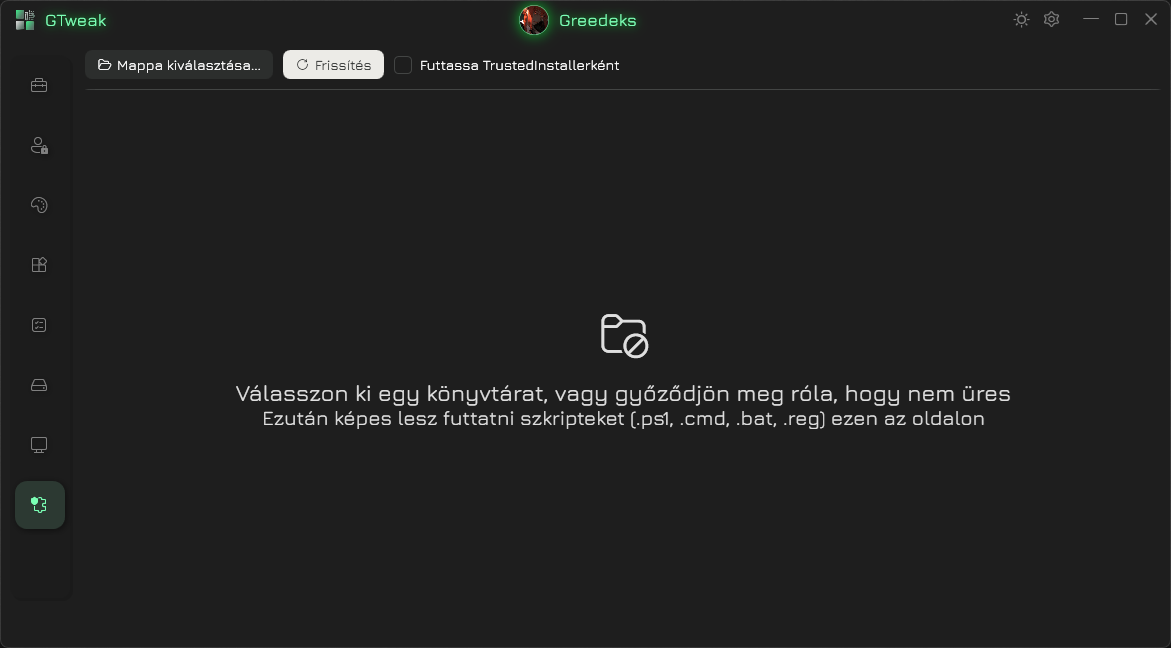
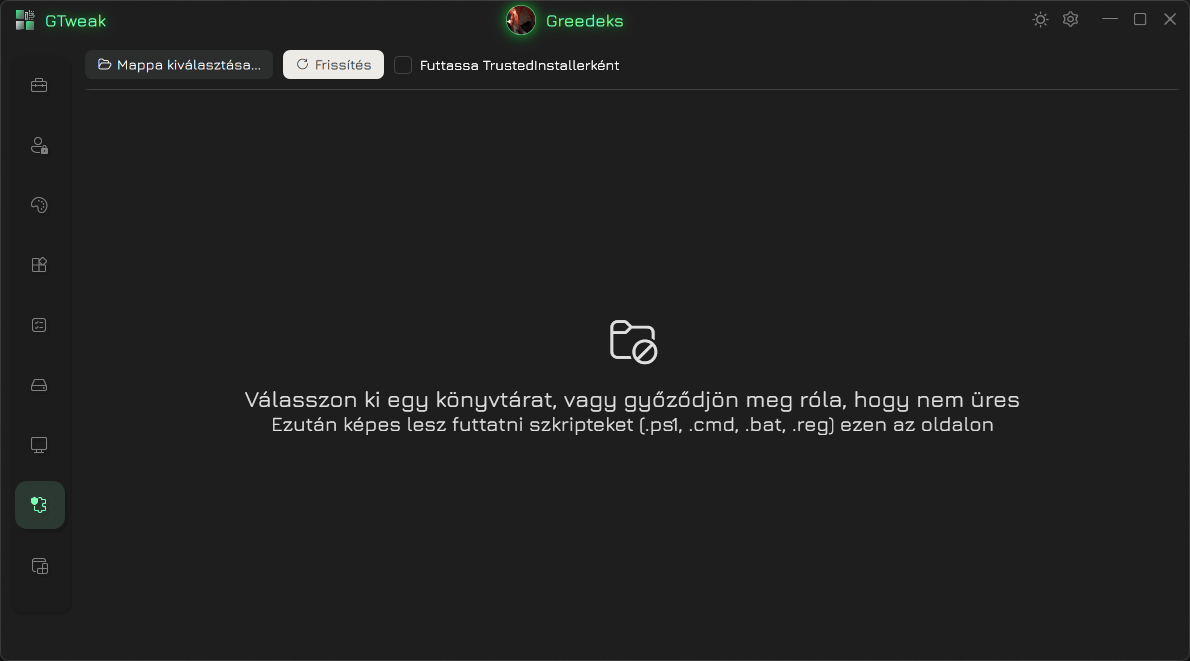
add new page & upd. images (hu)

diff --git a/.Source/GTweak/Utilities/Tweaks/DefenderManager/WindowsDefender.cs b/.Source/GTweak/Utilities/Tweaks/DefenderManager/WindowsDefender.cs
@@ -81,7 +81,7 @@ namespace GTweak.Utilities.Tweaks.DefenderManager
             Set-MpPreference -MAPSReporting 2
             Set-MpPreference -PUAProtection Enabled");
 
-            CommandExecutor.RunCommandAsTrustedInstaller($"{PathLocator.Executable.NSudo} -U:T -P:E -M:S -ShowWindowMode:Hide -Wait cmd /c " +
+            CommandExecutor.RunCommandAsTrustedInstaller($"{PathLocator.Executable.NSudo} -U:T -P:E -CreatePath:S -ShowWindowMode:Hide -Wait cmd /c " +
             @"reg delete ""HKLM\SOFTWARE\Policies\Microsoft\Windows Defender\Real-Time Protection"" /v LocalSettingOverrideDisableOnAccessProtection /f & " +
             @"reg delete ""HKLM\SOFTWARE\Policies\Microsoft\Windows Defender\Real-Time Protection"" /v LocalSettingOverrideRealtimeScanDirection /f & " +
             @"reg delete ""HKLM\SOFTWARE\Policies\Microsoft\Windows Defender\Real-Time Protection"" /v LocalSettingOverrideDisableIOAVProtection /f & " +
@@ -104,7 +104,7 @@ namespace GTweak.Utilities.Tweaks.DefenderManager
             @"reg delete ""HKLM\SOFTWARE\Policies\Microsoft\Windows Defender\Real-Time Protection"" /v DisablePrivacyMode /f & " +
             @"reg delete ""HKLM\SOFTWARE\Policies\Microsoft\Windows Defender\Real-Time Protection"" /v DisableBlockAtFirstSeen /f");
 
-            CommandExecutor.RunCommandAsTrustedInstaller($"{PathLocator.Executable.NSudo} -U:T -P:E -M:S -ShowWindowMode:Hide -Wait cmd /c " +
+            CommandExecutor.RunCommandAsTrustedInstaller($"{PathLocator.Executable.NSudo} -U:T -P:E -CreatePath:S -ShowWindowMode:Hide -Wait cmd /c " +
             @"reg delete ""HKCU\Software\Microsoft\Windows\CurrentVersion\AppHost"" /v EnableWebContentEvaluation /t REG_DWORD /d 0 /f & " +
             @"reg delete ""HKLM\SOFTWARE\Policies\Microsoft\MicrosoftEdge\PhishingFilter"" /v EnabledV9 /f & " +
             @"reg add ""HKLM\SOFTWARE\Microsoft\Windows Defender"" /v PUAProtection /t REG_DWORD /d 2 /f & " +
@@ -172,7 +172,7 @@ namespace GTweak.Utilities.Tweaks.DefenderManager
             RegistryHelp.DeleteValue(Registry.LocalMachine, @"SOFTWARE\Microsoft\Windows defender\Windows defender Exploit Guard\Controlled Folder Access", "EnableControlledFolderAccess");
             RegistryHelp.DeleteValue(Registry.LocalMachine, @"SOFTWARE\Microsoft\Windows Defender\Windows Defender Exploit Guard\Network Protection", "EnableNetworkProtection");
 
-            CommandExecutor.RunCommandAsTrustedInstaller($@"{PathLocator.Executable.NSudo}-U:T -P:E -M:S -ShowWindowMode:Hide cmd /c " +
+            CommandExecutor.RunCommandAsTrustedInstaller($@"{PathLocator.Executable.NSudo}-U:T -P:E -CreatePath:S -ShowWindowMode:Hide cmd /c " +
             @"reg delete HKLM\SYSTEM\CurrentControlSet\Services\WinDefend /v AutorunsDisabled /f & " +
             @"reg add HKLM\SYSTEM\CurrentControlSet\Services\wscsvc /v DelayedAutoStart /t REG_DWORD /d 1 /f & " +
             @"reg add ""HKLM\SYSTEM\CurrentControlSet\Services\WdFilter\Instances\WdFilter Instance"" /v Altitude /t REG_SZ /d 328010 /f & " +
@@ -192,14 +192,14 @@ namespace GTweak.Utilities.Tweaks.DefenderManager
             ManageExclusions(false);
             SetTaskState(true, winDefenderTasks);
 
-            CommandExecutor.RunCommandAsTrustedInstaller($@"""{PathLocator.Executable.NSudo}"" -U:T -P:E -M:S -ShowWindowMode:Hide -Wait cmd /c {CommandExecutor.CleanCommand(string.Join(" & ", services.Select(kv => $@"reg add ""HKLM\SYSTEM\CurrentControlSet\Services\{kv.Key}"" /v Start /t REG_DWORD /d {kv.Value} /f")))}""");
+            CommandExecutor.RunCommandAsTrustedInstaller($@"""{PathLocator.Executable.NSudo}"" -U:T -P:E -CreatePath:S -ShowWindowMode:Hide -Wait cmd /c {CommandExecutor.CleanCommand(string.Join(" & ", services.Select(kv => $@"reg add ""HKLM\SYSTEM\CurrentControlSet\Services\{kv.Key}"" /v Start /t REG_DWORD /d {kv.Value} /f")))}""");
 
             foreach (var (path, normal, block) in fileMappings)
             {
                 string sourcePath = Path.Combine(path, block);
                 string targetPath = Path.Combine(path, normal);
 
-                CommandExecutor.RunCommandAsTrustedInstaller($@"""{PathLocator.Executable.NSudo}"" -U:T -P:E -M:S -ShowWindowMode:Hide -Wait cmd /c ""{CommandExecutor.CleanCommand(string.Join(" && ", new[] {
+                CommandExecutor.RunCommandAsTrustedInstaller($@"""{PathLocator.Executable.NSudo}"" -U:T -P:E -CreatePath:S -ShowWindowMode:Hide -Wait cmd /c ""{CommandExecutor.CleanCommand(string.Join(" && ", new[] {
                     $@"takeown /f ""{sourcePath}"" /a",
                     $@"rename ""{sourcePath}"" ""{normal}""",
                     $@"icacls ""{targetPath}"" /setowner *S-1-5-80-956008885-3418522649-1831038044-1853292631-2271478464",
@@ -227,12 +227,12 @@ namespace GTweak.Utilities.Tweaks.DefenderManager
 
             foreach (var (path, normal, block) in fileMappings)
             {
-                CommandExecutor.RunCommandAsTrustedInstaller($@"""{PathLocator.Executable.NSudo}"" -U:T -P:E -M:S -ShowWindowMode:Hide -Wait cmd /c ""rename ""{Path.Combine(path, normal)}"" ""{block}""""");
+                CommandExecutor.RunCommandAsTrustedInstaller($@"""{PathLocator.Executable.NSudo}"" -U:T -P:E -CreatePath:S -ShowWindowMode:Hide -Wait cmd /c ""rename ""{Path.Combine(path, normal)}"" ""{block}""""");
             }
 
-            CommandExecutor.RunCommandAsTrustedInstaller($@"""{PathLocator.Executable.NSudo}"" -U:T -P:E -M:S -ShowWindowMode:Hide -Wait cmd /c {CommandExecutor.CleanCommand(string.Join(" & ", services.Select(kv => $@"reg add ""HKLM\SYSTEM\CurrentControlSet\Services\{kv.Key}"" /v Start /t REG_DWORD /d 4 /f")))}""");
+            CommandExecutor.RunCommandAsTrustedInstaller($@"""{PathLocator.Executable.NSudo}"" -U:T -P:E -CreatePath:S -ShowWindowMode:Hide -Wait cmd /c {CommandExecutor.CleanCommand(string.Join(" & ", services.Select(kv => $@"reg add ""HKLM\SYSTEM\CurrentControlSet\Services\{kv.Key}"" /v Start /t REG_DWORD /d 4 /f")))}""");
 
-            CommandExecutor.RunCommandAsTrustedInstaller($@"""{PathLocator.Executable.NSudo}"" -U:T -P:E -M:S -ShowWindowMode:Hide -Wait cmd /c " +
+            CommandExecutor.RunCommandAsTrustedInstaller($@"""{PathLocator.Executable.NSudo}"" -U:T -P:E -CreatePath:S -ShowWindowMode:Hide -Wait cmd /c " +
             $"for /d %D in (\"{Path.Combine(PathLocator.Folders.SystemDrive, @"ProgramData\\Microsoft\\Windows Defender\\Platform\\*")}\") do if exist \"%D\\MsMpEng.exe\" ren \"%D\\MsMpEng.exe\" BlockAntimalware.exe & " +
             $"for /d %D in (\"{Path.Combine(PathLocator.Folders.SystemDrive, @"ProgramData\\Microsoft\\Windows Defender\\Platform\\*")}\") do if exist \"%D\\MpDefenderCoreService.exe\" ren \"%D\\MpDefenderCoreService.exe\" BlockAntimalwareCore.exe & " +
             @"reg add HKLM\SYSTEM\CurrentControlSet\Services\WinDefend /v AutorunsDisabled /t REG_DWORD /d 3 /f & " +
@@ -266,7 +266,7 @@ namespace GTweak.Utilities.Tweaks.DefenderManager
             Set-MpPreference -MAPSReporting 0
             Set-MpPreference -PUAProtection Disabled");
 
-            CommandExecutor.RunCommandAsTrustedInstaller($@"""{PathLocator.Executable.NSudo}"" -U:T -P:E -M:S -ShowWindowMode:Hide -Wait cmd /c " +
+            CommandExecutor.RunCommandAsTrustedInstaller($@"""{PathLocator.Executable.NSudo}"" -U:T -P:E -CreatePath:S -ShowWindowMode:Hide -Wait cmd /c " +
             @"reg add ""HKLM\SOFTWARE\Policies\Microsoft\Windows Defender\Real-Time Protection"" /v LocalSettingOverrideDisableOnAccessProtection /t REG_DWORD /d 0 /f & " +
             @"reg add ""HKLM\SOFTWARE\Policies\Microsoft\Windows Defender\Real-Time Protection"" /v LocalSettingOverrideRealtimeScanDirection /t REG_DWORD /d 0 /f & " +
             @"reg add ""HKLM\SOFTWARE\Policies\Microsoft\Windows Defender\Real-Time Protection"" /v LocalSettingOverrideDisableIOAVProtection /t REG_DWORD /d 0 /f & " +
@@ -328,7 +328,7 @@ namespace GTweak.Utilities.Tweaks.DefenderManager
             RegistryHelp.Write(Registry.LocalMachine, @"SOFTWARE\Policies\Microsoft\Microsoft Antimalware\SpyNet", "SpyNetReporting", 0, RegistryValueKind.DWord);
             RegistryHelp.Write(Registry.LocalMachine, @"SOFTWARE\Policies\Microsoft\Microsoft Antimalware\SpyNet", "LocalSettingOverrideSpyNetReporting", 0, RegistryValueKind.DWord);
 
-            CommandExecutor.RunCommandAsTrustedInstaller($@"""{PathLocator.Executable.NSudo}"" -U:T -P:E -M:S -ShowWindowMode:Hide -Wait cmd /c " +
+            CommandExecutor.RunCommandAsTrustedInstaller($@"""{PathLocator.Executable.NSudo}"" -U:T -P:E -CreatePath:S -ShowWindowMode:Hide -Wait cmd /c " +
             @"reg add ""HKLM\Software\Policies\Microsoft\Windows Defender\SpyNet"" /v DisableBlockAtFirstSeen /t REG_DWORD /d 1 /f & " +
             @"reg add ""HKLM\Software\Policies\Microsoft\Windows Defender\SpyNet"" /v SpynetReporting /t REG_DWORD /d 0 /f & " +
             @"reg add ""HKLM\Software\Policies\Microsoft\Windows Defender\SpyNet"" /v SubmitSamplesConsent /t REG_DWORD /d 2 /f & " +
@@ -398,7 +398,7 @@ namespace GTweak.Utilities.Tweaks.DefenderManager
             RegistryHelp.DeleteValue(Registry.CurrentUser, @"SOFTWARE\Microsoft\Windows\CurrentVersion\Run", "Windows Defender");
             RegistryHelp.DeleteValue(Registry.LocalMachine, @"SOFTWARE\Microsoft\Windows\CurrentVersion\Run", "SecurityHealth");
 
-            CommandExecutor.RunCommandAsTrustedInstaller($@"""{PathLocator.Executable.NSudo}"" -U:T -P:E -M:S -ShowWindowMode:Hide -Wait cmd /c " +
+            CommandExecutor.RunCommandAsTrustedInstaller($@"""{PathLocator.Executable.NSudo}"" -U:T -P:E -CreatePath:S -ShowWindowMode:Hide -Wait cmd /c " +
             @"reg add ""HKCU\Software\Microsoft\Windows\CurrentVersion\AppHost"" /v EnableWebContentEvaluation /t REG_DWORD /d 0 /f & " +
             @"reg add ""HKLM\SOFTWARE\Policies\Microsoft\MicrosoftEdge\PhishingFilter"" /v EnabledV9 /t REG_DWORD /d 0 /f & " +
             @"reg add ""HKLM\SOFTWARE\Microsoft\Windows Defender"" /v PUAProtection /t REG_DWORD /d 0 /f & " +
@@ -433,7 +433,7 @@ namespace GTweak.Utilities.Tweaks.DefenderManager
 
                     foreach (var filePath in Directory.EnumerateFiles(directory, "*", SearchOption.TopDirectoryOnly))
                     {
-                        CommandExecutor.RunCommandAsTrustedInstaller($@"{PathLocator.Executable.NSudo} -U:T -P:E -M:S -ShowWindowMode:Hide -Wait cmd /c ""takeown /f \""{filePath}\"" /r /d y && icacls \""{filePath}\"" /inheritance:r /remove *S-1-5-32-544 *S-1-5-11 *S-1-5-32-545 *S-1-5-18 && icacls \""{filePath}\"" /grant {Environment.UserName}:F /t && del /q \""{filePath}\""""");
+                        CommandExecutor.RunCommandAsTrustedInstaller($@"{PathLocator.Executable.NSudo} -U:T -P:E -CreatePath:S -ShowWindowMode:Hide -Wait cmd /c ""takeown /f \""{filePath}\"" /r /d y && icacls \""{filePath}\"" /inheritance:r /remove *S-1-5-32-544 *S-1-5-11 *S-1-5-32-545 *S-1-5-18 && icacls \""{filePath}\"" /grant {Environment.UserName}:F /t && del /q \""{filePath}\""""");
 
                         for (int i = 0; Directory.Exists(filePath) && i < 10; i++)
                         {
@@ -441,7 +441,7 @@ namespace GTweak.Utilities.Tweaks.DefenderManager
                             catch (Exception ex) { ErrorLogging.LogDebug(ex); }
 
                             TakingOwnership.GrantAdministratorsAccess(filePath, TakingOwnership.SE_OBJECT_TYPE.SE_FILE_OBJECT);
-                            CommandExecutor.RunCommandAsTrustedInstaller($@"{PathLocator.Executable.NSudo} -U:T -P:E -M:S -ShowWindowMode:Hide -Wait cmd /c ""del /q ""{filePath}""""");
+                            CommandExecutor.RunCommandAsTrustedInstaller($@"{PathLocator.Executable.NSudo} -U:T -P:E -CreatePath:S -ShowWindowMode:Hide -Wait cmd /c ""del /q ""{filePath}""""");
 
                             Thread.Sleep(500);
                         }
@@ -486,7 +486,7 @@ namespace GTweak.Utilities.Tweaks.DefenderManager
             string[] processes = { "smartscreen", "mpdefendercoreservice", "msmpeng", "securityhealthservice", "securityhealthsystray", "securityhealthui", "wuauserv", "searchui", "sechealthui", "configsecuritypolicy", "runtimebroker", "msedge", "ssoncom", "usocoreworker", "defenderbootstrapper", "sensedlpprocessor", "sensetracer",
             "dlpuseragent", "lsass", "mpam-d", "mpam-fe", "mpam-fe_bd", "mpas-d", "mpas-fe", "mpas-fe_bd", "mpav-d", "mpav-fe", "mpav-fe_bd", "mpcmdrun", "mpcopyaccelerator", "mpdlpcmd", "mpdlpservice", "mpextms", "mpsigstub", "mrt", "msmpengcp", "mssense", "nissrv", "offlinescannershell", "securekernel", "usocoreworker", "securityhealthhost",
             "senseap", "senseaptoast", "sensecm", "sensegpparser", "senseidentity", "senseimdscollector", "senseir", "sensendr", "sensesampleuploader", "sensetvm", "sgrmbroker", "healthattestationclientagent", "wdnissvc", "wdboot", "msseccore", "mssecflt", "mssecwfp", "mdcoresvc", "sensece", "senseui", "sensepp", "wdshield", "mipdlp"  };
-            CommandExecutor.RunCommandAsTrustedInstaller($@"""{PathLocator.Executable.NSudo}"" -U:T -P:E -M:S -ShowWindowMode:Hide -Wait cmd /c taskkill /f " + string.Join(" ", processes.Select(p => $"/im {p}.exe")));
+            CommandExecutor.RunCommandAsTrustedInstaller($@"""{PathLocator.Executable.NSudo}"" -U:T -P:E -CreatePath:S -ShowWindowMode:Hide -Wait cmd /c taskkill /f " + string.Join(" ", processes.Select(p => $"/im {p}.exe")));
         }
 
         private static void InvokePowerShell(string command)

diff --git a/.Source/GTweak/Utilities/Controls/PathLocator.cs b/.Source/GTweak/Utilities/Controls/PathLocator.cs
@@ -292,6 +292,10 @@ namespace GTweak.Utilities.Controls
 
             internal static readonly string OneDrive = FindExecutablePath("onedrivesetup.exe");
 
+            internal static readonly string DisablingWD = Path.Combine(Folders.DefenderBackup, "DisablingWD.exe");
+
+            internal static readonly string NSudo = Path.Combine(Folders.DefenderBackup, "NSudoLC.exe");
+
             internal static (string Normal, string Block) UsoClient =>
             (
                 Path.Combine(Environment.SystemDirectory, "usoclient.exe"),
@@ -308,9 +312,23 @@ namespace GTweak.Utilities.Controls
 
             internal static readonly string MpCmdRun = Path.Combine(Folders.SystemDrive, "Program Files", "Windows Defender", "MpCmdRun.exe");
 
-            internal static readonly string DisablingWD = Path.Combine(Folders.DefenderBackup, "DisablingWD.exe");
 
-            internal static readonly string NSudo = Path.Combine(Folders.DefenderBackup, "NSudoLC.exe");
+
+            internal static class Protections
+            {
+                private static (string Normal, string Block) CreatePath(string dir, string normalName, string blockName) => (Path.Combine(dir, normalName), Path.Combine(dir, blockName));
+
+                internal static (string Normal, string Block) MpCmdRun => CreatePath(Folders.WindowsDefender, "MpCmdRun.exe", "BlockMpCmdRun.exe");
+
+                internal static (string Normal, string Block) SmartScreen => CreatePath(Environment.SystemDirectory, "smartscreen.exe", "BlockSS.exe");
+
+                internal static (string Normal, string Block) DefenderEngine => CreatePath(Folders.WindowsDefender, "MsMpEng.exe", "BlockAntimalware.exe");
+
+                internal static (string Normal, string Block) DefenderCore => CreatePath(Folders.WindowsDefender, "MpDefenderCoreService.exe", "BlockAntimalwareCore.exe");
+
+                internal static (string Normal, string Block) HealthAttestation => CreatePath(Path.Combine(Environment.SystemDirectory, "HealthAttestationClient"), "HealthAttestationClientAgent.exe", "BlockHACA.exe");
+
+            }
         }
 
         internal static class Files

diff --git a/README-hu.md b/README-hu.md
@@ -88,6 +88,10 @@
   <summary> Bővítmények </summary>
   <img src="https://github.com/Greedeks/GTweak/blob/main/.github/screenshots/hu/Addons.png"/>
 </details>
+<details>
+  <summary> Eszközkészlet </summary>
+  <img src="https://github.com/Greedeks/GTweak/blob/main/.github/screenshots/hu/Toolset.png"/>
+</details>
 
 <h2> Rendszerkövetelmények</h2>
 
